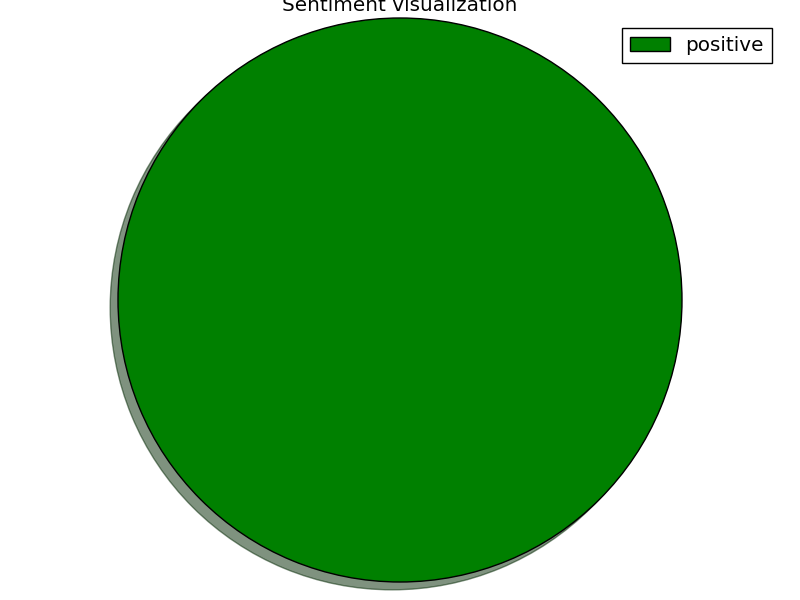
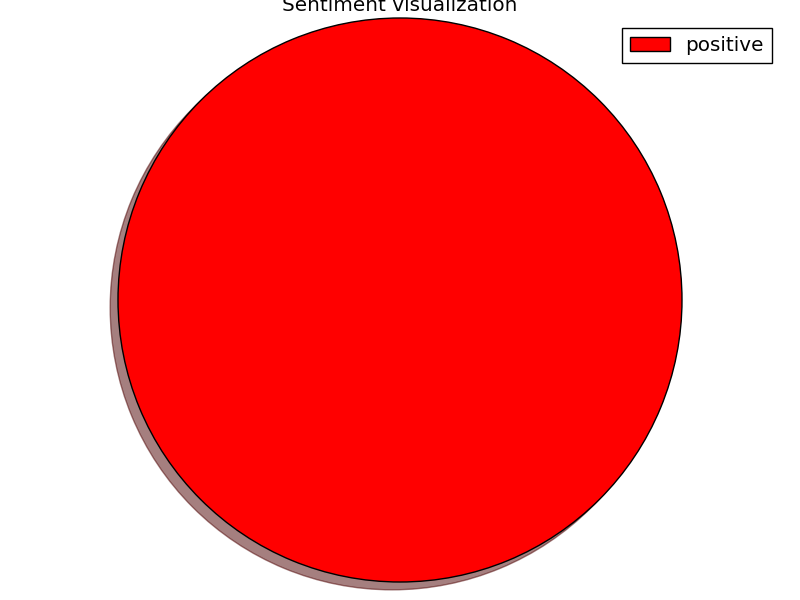
Updated Scripts

diff --git a/Backend/scripts/sentanalysis_visualization.py b/Backend/scripts/sentanalysis_visualization.py
@@ -71,6 +71,8 @@ for hotel in hotel_sentlist.keys():
 	
 	hotel_sentcount[hotel] = Counter(hotel_sentlist[hotel])
 	
+	print()
+
 	sent_labels = []
 	sent_value = []
 
@@ -81,7 +83,7 @@ for hotel in hotel_sentlist.keys():
 	print(sent_labels)
 	print(sent_value)
 
-	colors = ['green', 'red']
+	colors = ['red', 'green']
 	patches, texts = plt.pie(sent_value, colors=colors, shadow=True, startangle=90)
 	plt.legend(patches, sent_labels, loc="best")
 	plt.axis('equal')
